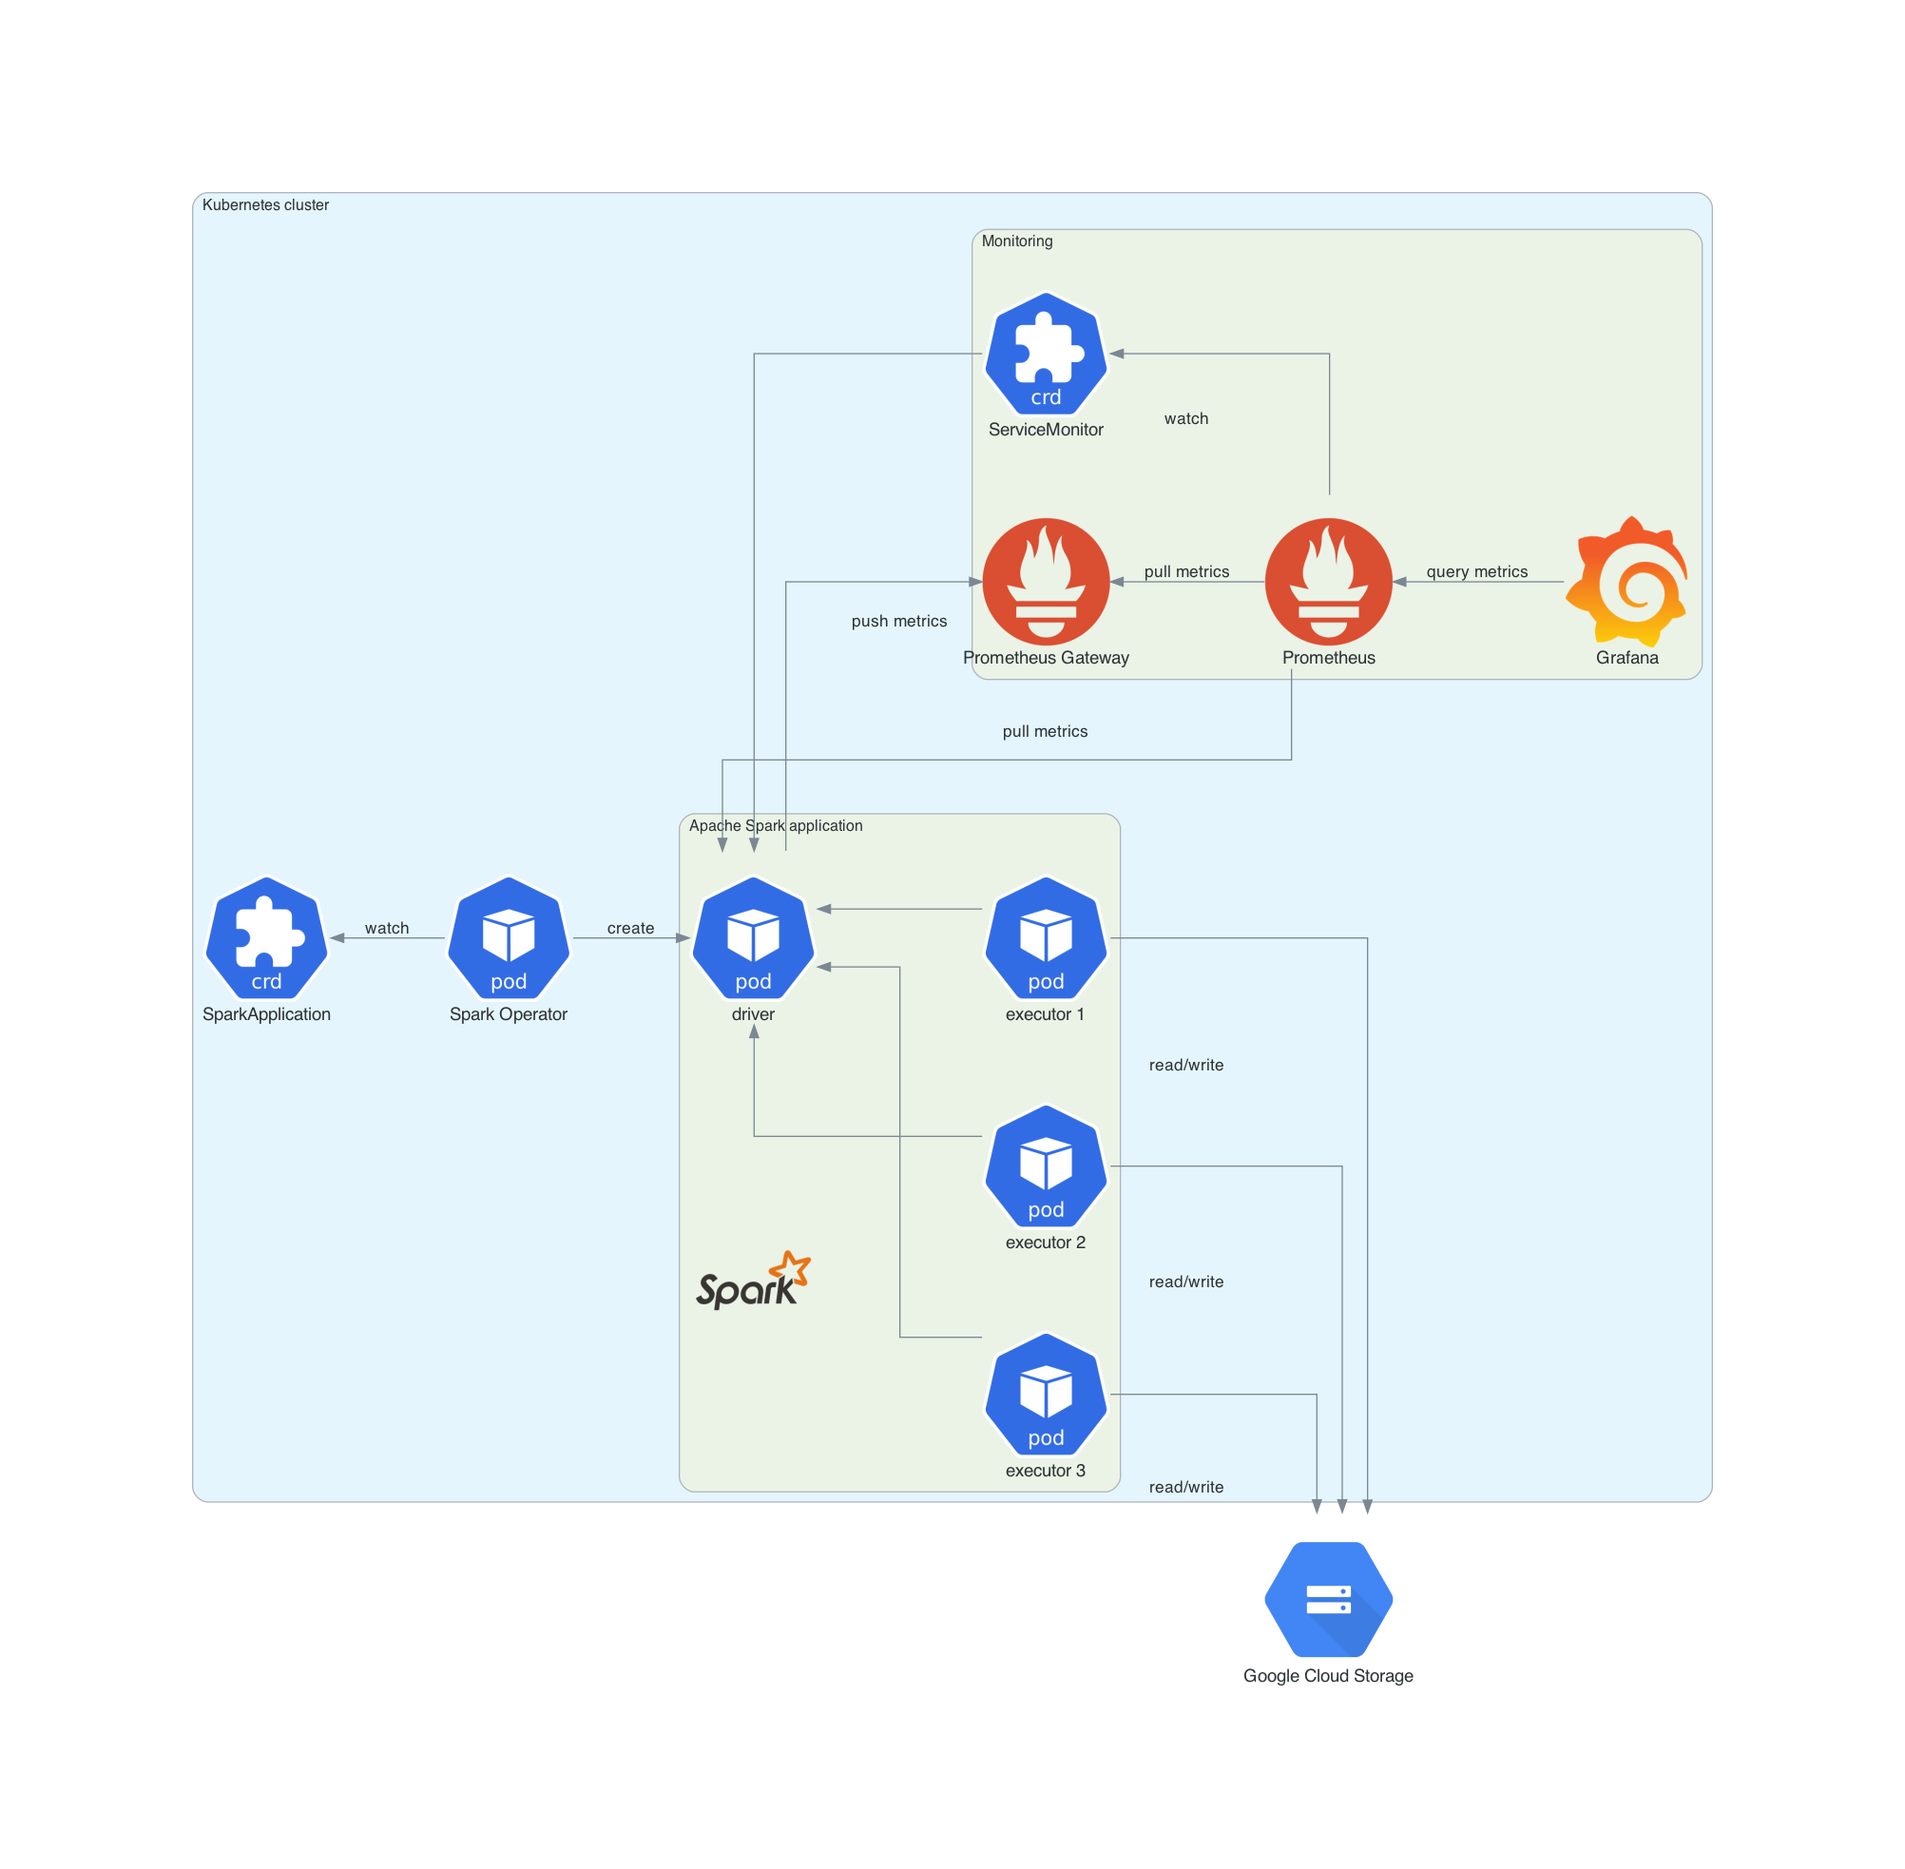
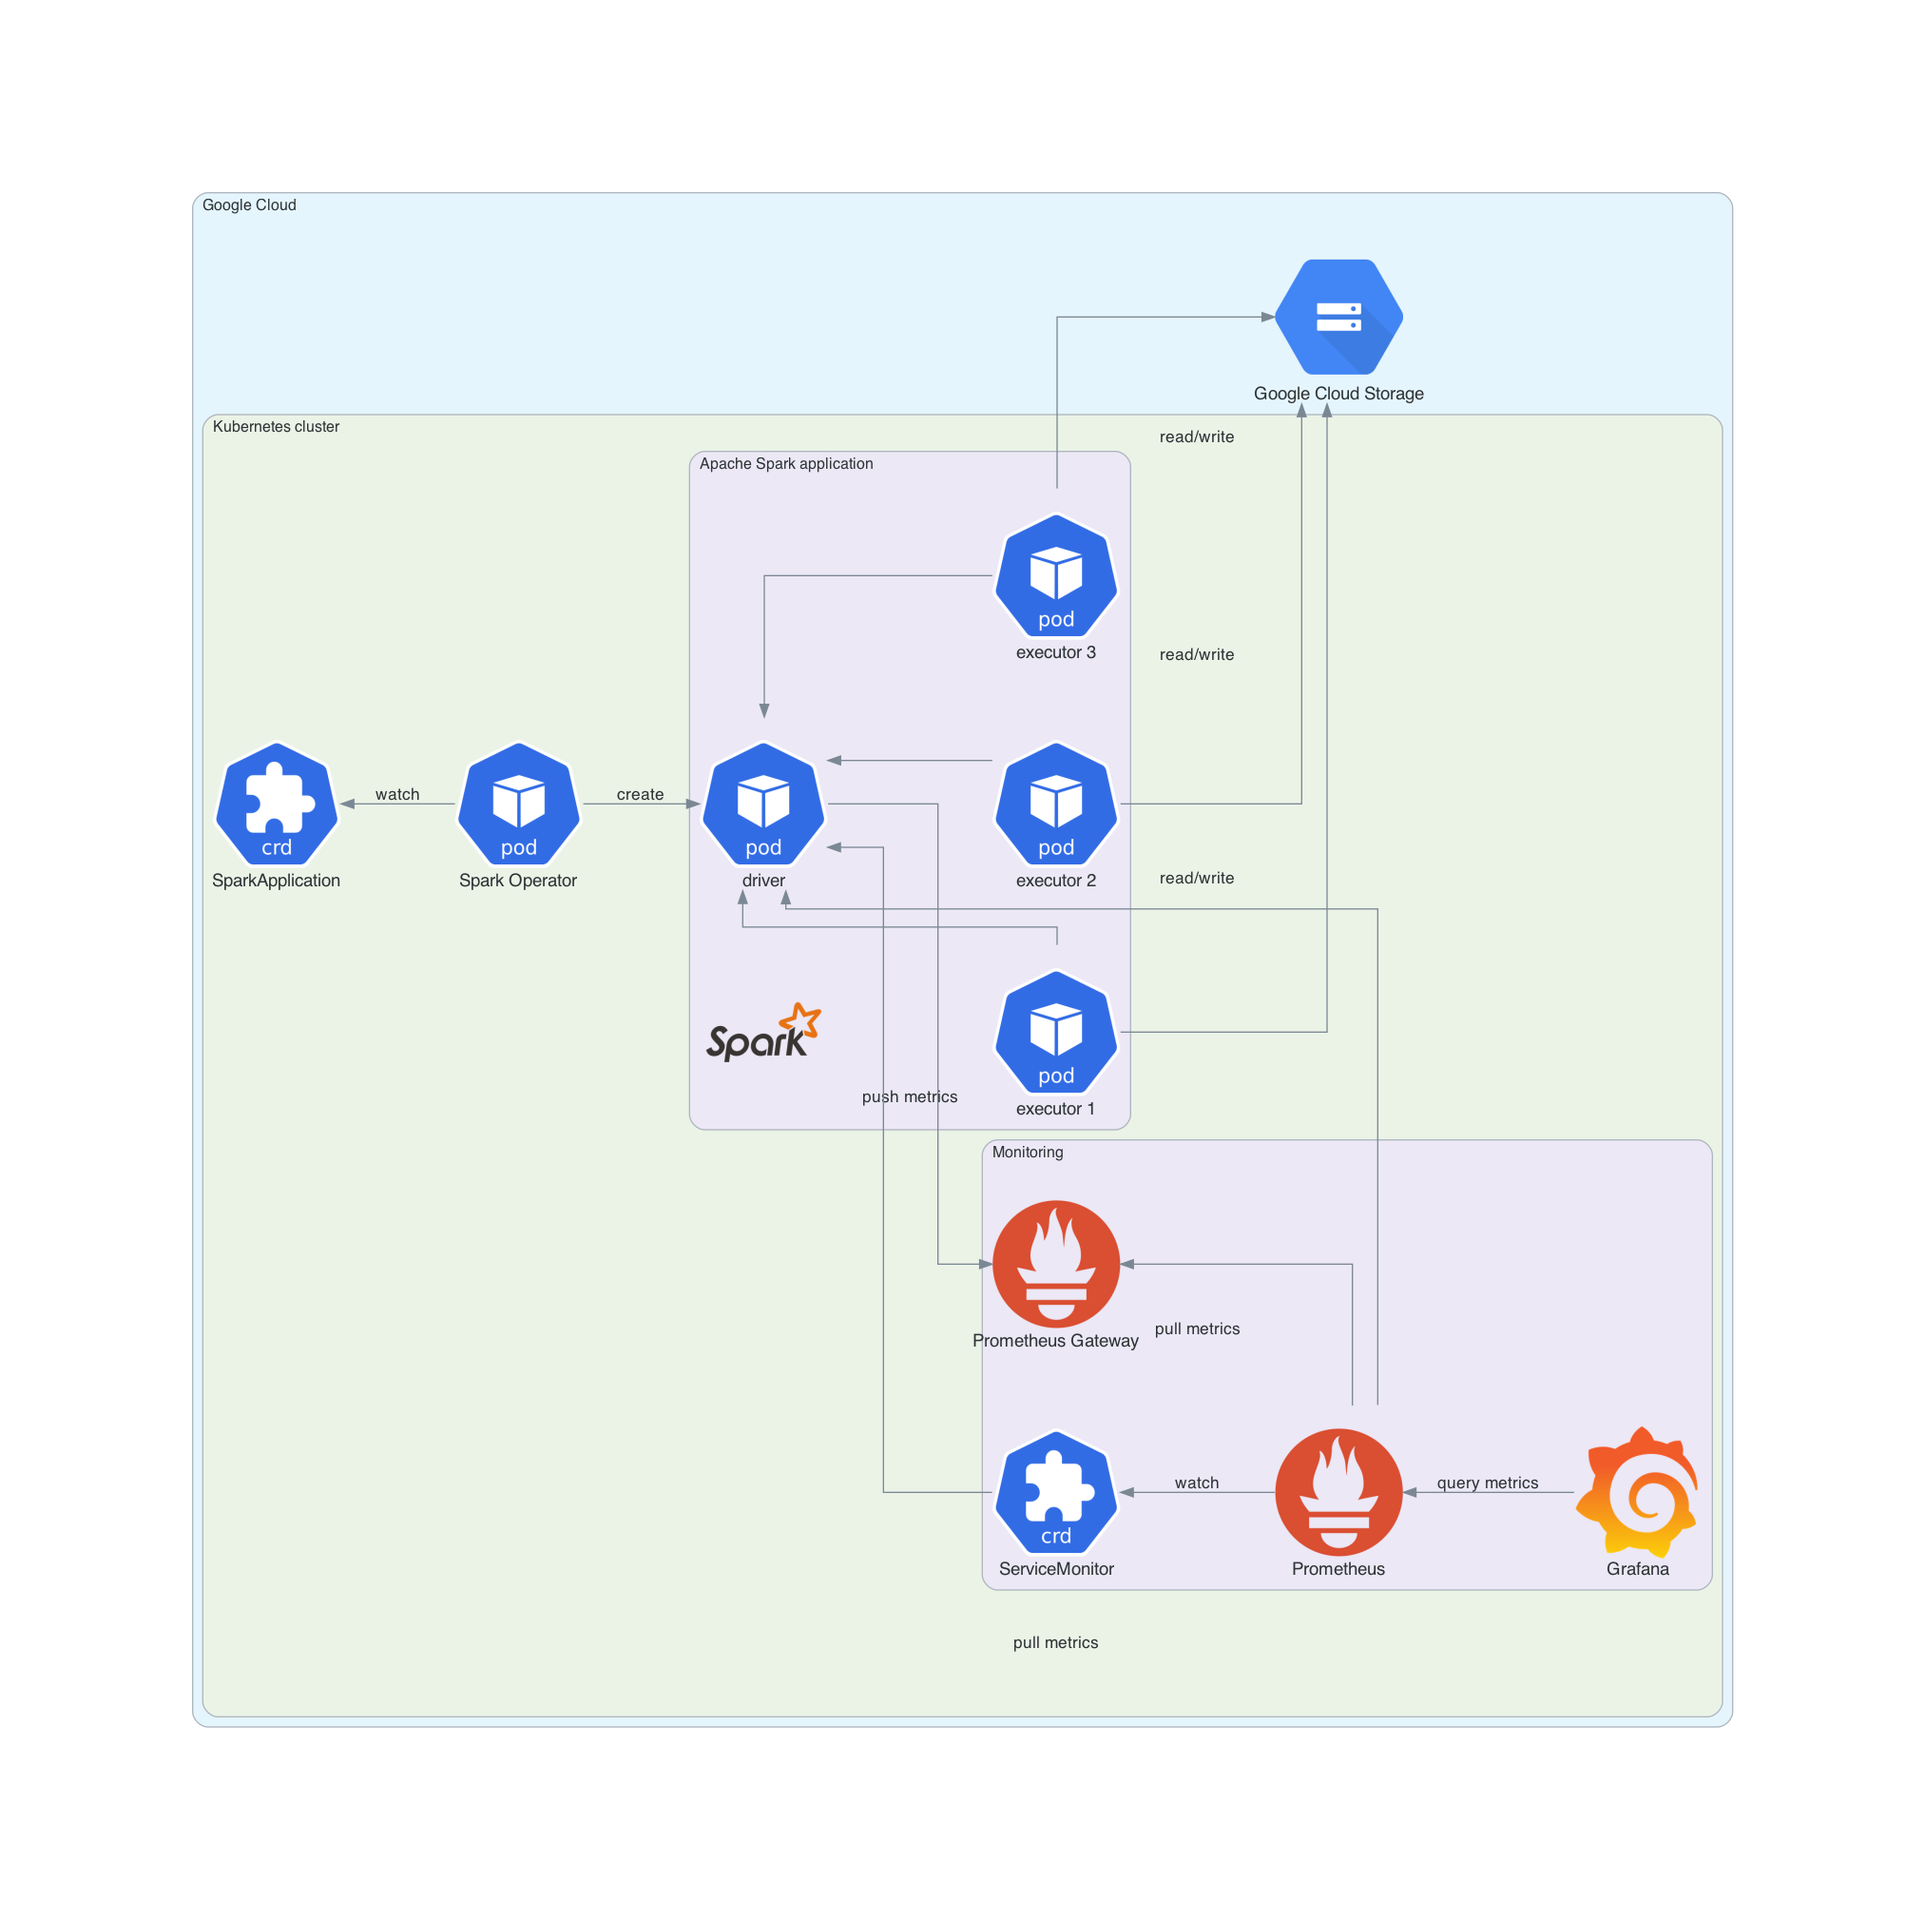
Diagram fixes

diff --git a/doc/diagram-infra.py b/doc/diagram-infra.py
@@ -11,32 +11,33 @@ with Diagram(show=False, outformat="png",
              direction="LR",
              node_attr ={"fontsize": "14"},
              edge_attr ={"labelfontsize": "14"}):
-    storage = GCS("Google Cloud Storage")
-    with Cluster("Kubernetes cluster"):
-        with Cluster("Monitoring") as monitoring:
-            metrics = Prometheus("Prometheus")
-            metrics_push = Prometheus("Prometheus Gateway")
-            metrics_push << Edge(label="pull metrics") << metrics
-            service_monitor = CRD("ServiceMonitor")
-            service_monitor << Edge(label="watch") << metrics
-            metrics << Edge(label="query metrics") << Grafana("Grafana")
-        with Cluster("Apache Spark application") as spark:
-            Spark()
-            driver = Pod("driver")
-            driver << service_monitor
-            exec_1 = Pod("executor 1")
-            exec_2 = Pod("executor 2")
-            exec_3 = Pod("executor 3")
-            driver << exec_1
-            driver << exec_2
-            driver << exec_3
-            driver >> Edge(label="push metrics") >> metrics_push
-            driver << Edge(label="pull metrics") << metrics
-            exec_1 >> Edge(label="read/write") >> storage
-            exec_2 >> Edge(label="read/write") >> storage
-            exec_3 >> Edge(label="read/write") >> storage
-        operator = Pod("Spark Operator")
-        crd = CRD("SparkApplication")
-        crd << Edge(label="watch") << operator >> Edge(label="create") >> driver
+    with Cluster("Google Cloud") as cloud:
+        storage = GCS("Google Cloud Storage")
+        with Cluster("Kubernetes cluster"):
+            with Cluster("Monitoring") as monitoring:
+                metrics = Prometheus("Prometheus")
+                metrics_push = Prometheus("Prometheus Gateway")
+                metrics_push << Edge(label="pull metrics") << metrics
+                service_monitor = CRD("ServiceMonitor")
+                service_monitor << Edge(label="watch") << metrics
+                metrics << Edge(label="query metrics") << Grafana("Grafana")
+            with Cluster("Apache Spark application") as spark:
+                Spark()
+                driver = Pod("driver")
+                driver << service_monitor
+                exec_1 = Pod("executor 1")
+                exec_2 = Pod("executor 2")
+                exec_3 = Pod("executor 3")
+                driver << exec_1
+                driver << exec_2
+                driver << exec_3
+                driver >> Edge(label="push metrics") >> metrics_push
+                driver << Edge(label="pull metrics") << metrics
+                exec_1 >> Edge(label="read/write") >> storage
+                exec_2 >> Edge(label="read/write") >> storage
+                exec_3 >> Edge(label="read/write") >> storage
+            operator = Pod("Spark Operator")
+            crd = CRD("SparkApplication")
+            crd << Edge(label="watch") << operator >> Edge(label="create") >> driver
 
 
